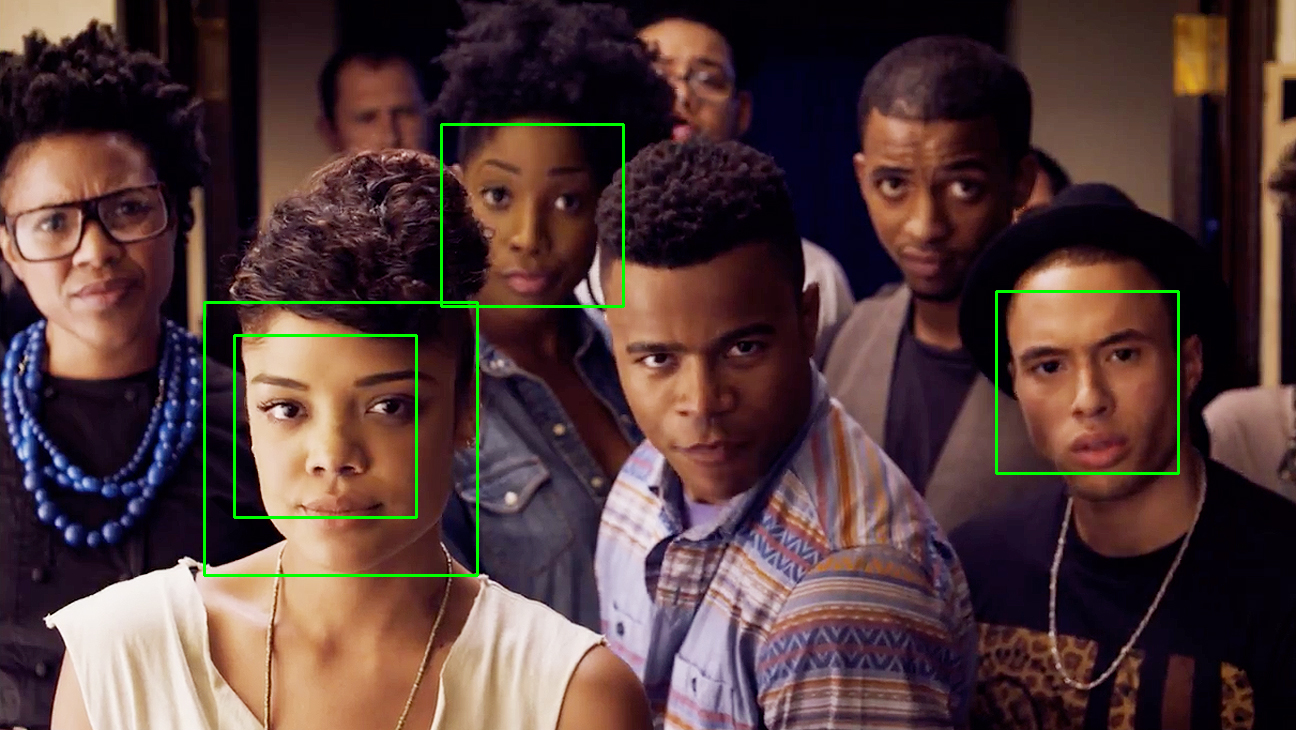
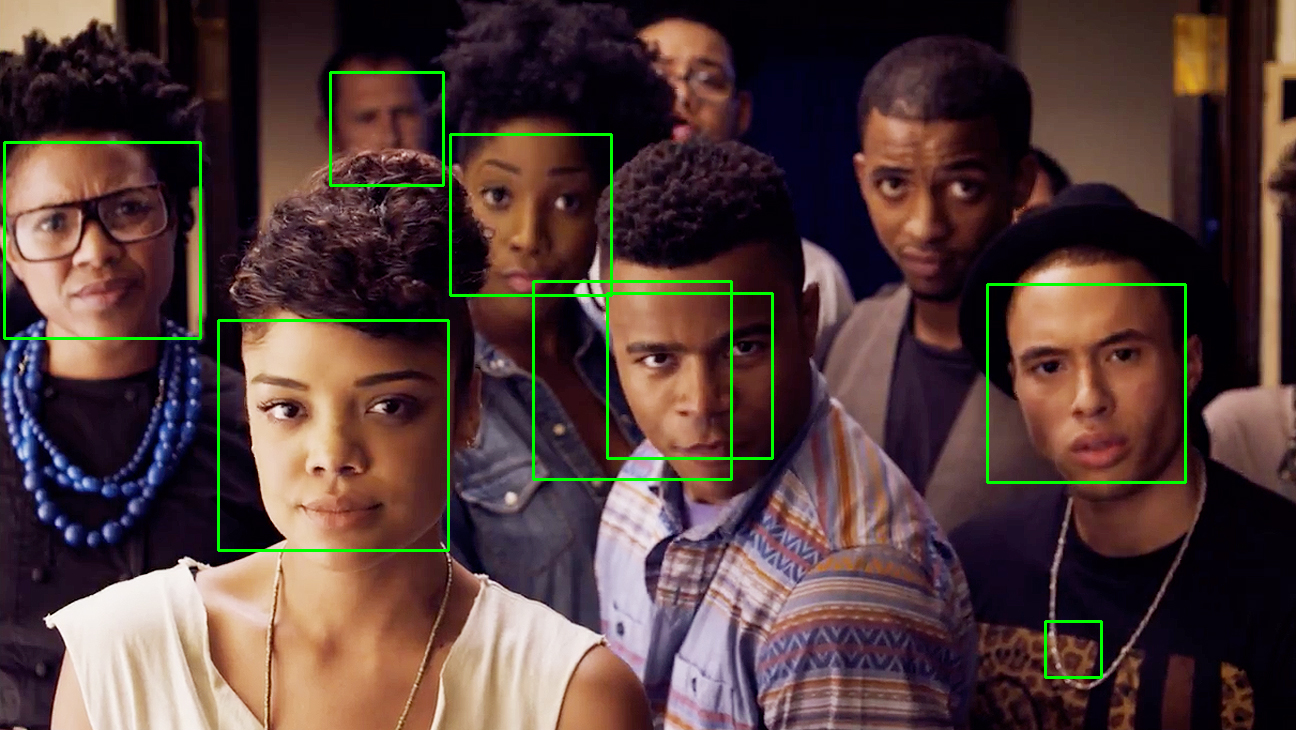
Zhenyu pytorch test code

diff --git a/src/pyTorchTest.py b/src/pyTorchTest.py
@@ -1,0 +1,87 @@
+#Thank you rickiepark 
+
+
+import pylab
+import numpy
+
+import torch
+import torch.nn as nn
+import torch.nn.functional as F
+import torch.optim as optim
+from torchvision import datasets, transforms
+from torch.autograd import Variable
+from torch import utils
+from matplotlib.pyplot import *
+
+class MnistModel(nn.Module):
+    def __init__(self):
+        super(MnistModel, self).__init__()
+        # input is 28x28
+        # padding=2 for same padding
+        self.conv1 = nn.Conv2d(1, 32, 5, padding=2)
+        # feature map size is 14*14 by pooling
+        # padding=2 for same padding
+        self.conv2 = nn.Conv2d(32, 64, 5, padding=2)
+        # feature map size is 7*7 by pooling
+        self.fc1 = nn.Linear(64*7*7, 1024)
+        self.fc2 = nn.Linear(1024, 10)
+        
+    def forward(self, x):
+        x = F.max_pool2d(F.relu(self.conv1(x)), 2)
+        x = F.max_pool2d(F.relu(self.conv2(x)), 2)
+        x = x.view(-1, 64*7*7)   # reshape Variable
+        x = F.relu(self.fc1(x))
+        x = F.dropout(x, training=self.training)
+        x = self.fc2(x)
+        return F.log_softmax(x)
+    
+model = MnistModel()
+
+batch_size = 50
+train_loader = torch.utils.data.DataLoader(
+    datasets.MNIST('data', train=True, download=True, transform=transforms.ToTensor()),
+    batch_size=batch_size, shuffle=True)
+
+test_loader = torch.utils.data.DataLoader(
+    datasets.MNIST('data', train=False, transform=transforms.ToTensor()),
+    batch_size=1000)
+
+for p in model.parameters():
+    print(p.size())
+    
+optimizer = optim.Adam(model.parameters(), lr=0.0001)
+
+model.train()
+train_loss = []
+train_accu = []
+i = 0
+for epoch in range(15):
+    for data, target in train_loader:
+        data, target = Variable(data), Variable(target)
+        optimizer.zero_grad()
+        output = model(data)
+        loss = F.nll_loss(output, target)
+        loss.backward()    # calc gradients
+        train_loss.append(loss.data[0])
+        optimizer.step()   # update gradients
+        prediction = output.data.max(1)[1]   # first column has actual prob.
+        accuracy = prediction.eq(target.data).sum()/batch_size*100
+        train_accu.append(accuracy)
+        if i % 1000 == 0:
+            print('Train Step: {}\tLoss: {:.3f}\tAccuracy: {:.3f}'.format(i, loss.data[0], accuracy))
+        i += 1
+        
+plt.plot(np.arange(len(train_loss)), train_loss)
+plt.plot(np.arange(len(train_accu)), train_accu)
+model.eval()
+correct = 0
+for data, target in test_loader:
+    data, target = Variable(data, volatile=True), Variable(target)
+    output = model(data)
+    prediction = output.data.max(1)[1]
+    correct += prediction.eq(target.data).sum()
+
+print('\nTest set: Accuracy: {:.2f}%'.format(100. * correct / len(test_loader.dataset)))
+
+
+

diff --git a/src/FaceDetection.py b/src/FaceDetection.py
@@ -42,7 +42,7 @@ detector = dlib.get_frontal_face_detector()
 predictor = dlib.shape_predictor(args["shape_predictor"])
 
 # load the input image, resize it, and convert it to grayscale
-image = cv2.imread(args["images"])
+image = cv2.imread(args["./images/dear_a.jpg"])
 image = imutils.resize(image, width=500)
 gray = cv2.cvtColor(image, cv2.COLOR_BGR2GRAY)
 
@@ -66,10 +66,10 @@ for (i, rect) in enumerate(rects):
     cv2.putText(image, "Face #{}".format(i + 1), (x - 10, y - 10),
                 cv2.FONT_HERSHEY_SIMPLEX, 0.5, (0, 255, 0), 2)
         
-                # loop over the (x, y)-coordinates for the facial landmarks
-                # and draw them on the image
-                for (x, y) in shape:
-                    cv2.circle(image, (x, y), 1, (0, 0, 255), -1)
+    # loop over the (x, y)-coordinates for the facial landmarks
+    # and draw them on the image
+    for (x, y) in shape:
+        cv2.circle(image, (x, y), 1, (0, 0, 255), -1)
 
 # show the output image with the face detections + facial landmarks
 cv2.imshow("Output", image)

diff --git a/src/cv_image.py b/src/cv_image.py
@@ -21,7 +21,7 @@ image = cv2.imread(imagePath)
 gray = cv2.cvtColor(image, cv2.COLOR_BGR2GRAY)
 faces = faceCascade.detectMultiScale(
     gray,
-    scaleFactor=1.5,
+    scaleFactor=1.1,
     minNeighbors=5,
     minSize=(30, 30),
     # flags = cv2.cv.CV_HAAR_SCALE_IMAGE
